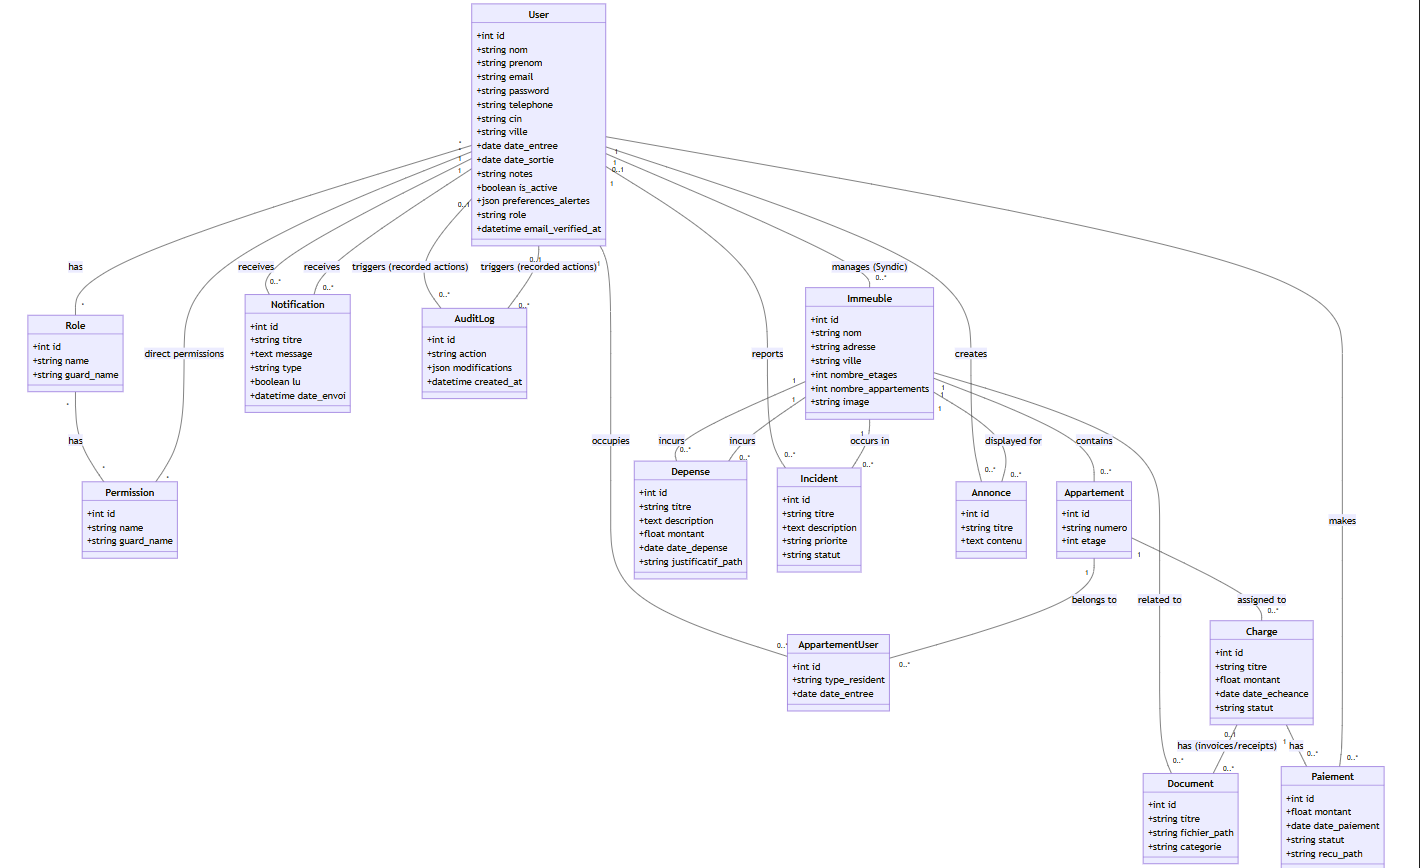
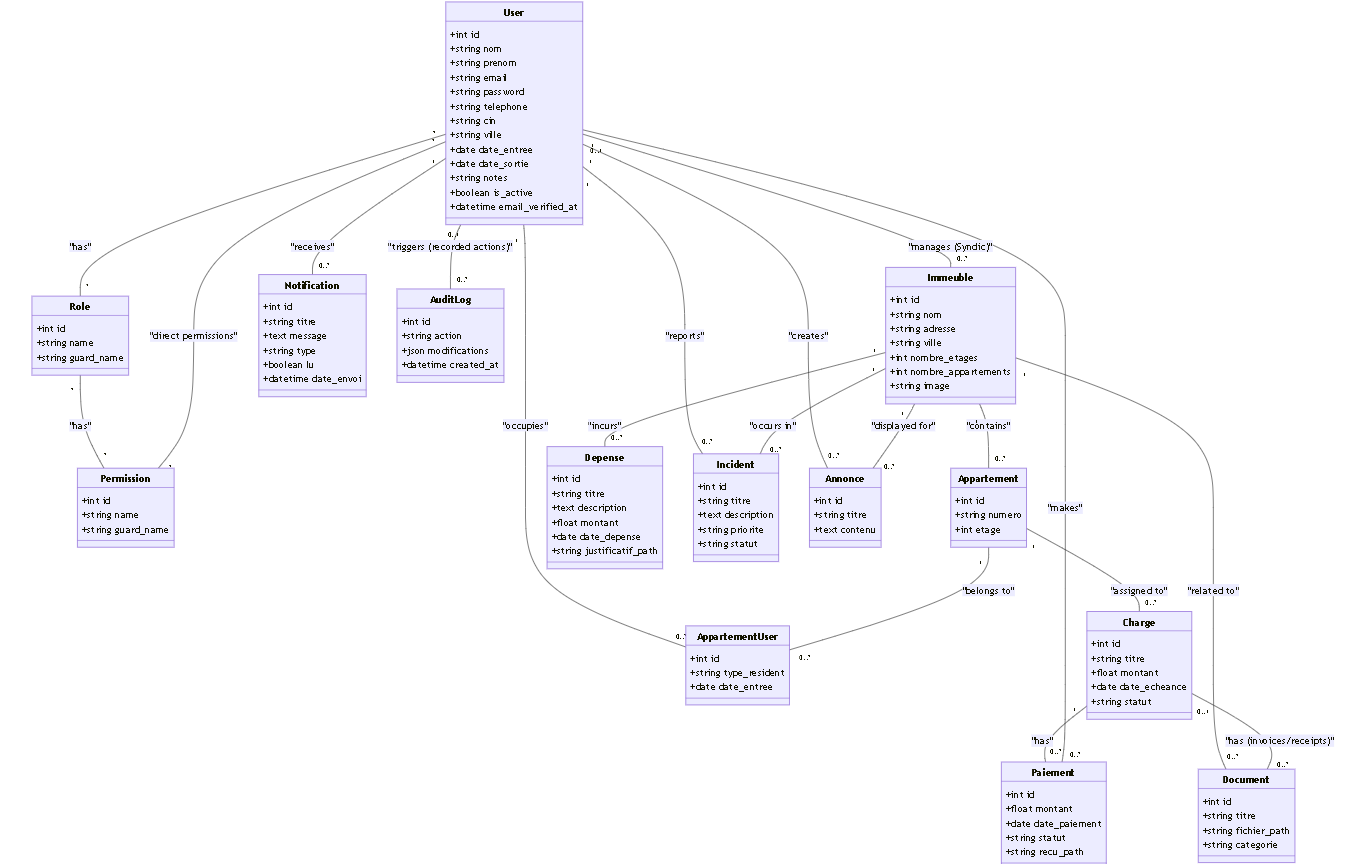
update

diff --git a/ImmoSyndic/resources/js/components/syndic/syndicImmeubles.js b/ImmoSyndic/resources/js/components/syndic/syndicImmeubles.js
@@ -93,5 +93,16 @@ export default (config = {}) => ({
         const matchesVille = this.filterVille === 'all' || ville === this.filterVille;
         const matchesStatut = this.filterStatut === 'all' || statut === this.filterStatut;
         return matchesSearch && matchesVille && matchesStatut;
+    },
+
+    /**
+     * Confirmer et soumettre la suppression d'un immeuble
+     */
+    supprimerImmeuble(id, nom) {
+        if (confirm(`Confirmer la suppression définitive de l'immeuble "${nom}" ?`)) {
+            const form = document.getElementById('delete-immeuble-form');
+            form.action = `/syndic/immeubles/${id}`;
+            form.submit();
+        }
     }
 });

diff --git a/ImmoSyndic/resources/views/admin/syndic/immeubles.blade.php b/ImmoSyndic/resources/views/admin/syndic/immeubles.blade.php
@@ -30,6 +30,27 @@
         </button>
     </div>
 
+    @if(session('success'))
+    <div class="mb-6 bg-emerald-500/10 border border-emerald-500/20 text-sm text-emerald-600 dark:text-emerald-400 rounded-2xl p-4 flex items-center gap-x-2.5 shadow-sm">
+        <i data-lucide="check-circle" class="size-5 shrink-0 text-emerald-500"></i>
+        <span class="font-semibold">{{ session('success') }}</span>
+    </div>
+    @endif
+
+    @if($errors->any())
+    <div class="mb-6 bg-rose-500/10 border border-rose-500/20 text-sm text-rose-600 dark:text-rose-400 rounded-2xl p-4 flex flex-col gap-y-1 shadow-sm">
+        <div class="flex items-center gap-x-2.5 font-semibold">
+            <i data-lucide="alert-circle" class="size-5 shrink-0 text-rose-500"></i>
+            <span>Veuillez corriger les erreurs suivantes :</span>
+        </div>
+        <ul class="list-disc list-inside ps-7 mt-1.5 space-y-1">
+            @foreach($errors->all() as $error)
+                <li>{{ $error }}</li>
+            @endforeach
+        </ul>
+    </div>
+    @endif
+
     {{-- Panneau d'affichage contenant la table des copropriétés --}}
     <div class="flex flex-col border border-gray-200/60 dark:border-slate-800/60 rounded-2xl shadow-premium bg-white dark:bg-[#0D121F] overflow-hidden">
         {{-- En-tête avec les filtres de recherche et de sélection de ville --}}
@@ -96,7 +117,7 @@
                                 <button @click="initEdit('{{ $immeuble->id }}', '{{ addslashes($immeuble->nom) }}', '{{ addslashes($immeuble->adresse) }}', '{{ addslashes($immeuble->ville) }}', '{{ $immeuble->syndic_id }}', {{ $immeuble->nombre_etages }}, {{ $immeuble->nombre_appartements }}, {{ json_encode($allVilles) }})" type="button" data-hs-overlay="#hs-modal-add-immeuble" class="size-8 rounded-xl bg-slate-100 hover:bg-slate-200 text-slate-700 dark:bg-neutral-800 dark:hover:bg-neutral-700 dark:text-slate-300 flex items-center justify-center transition-all shadow-sm border border-gray-200/40 dark:border-slate-750">
                                     <i data-lucide="edit-2" class="size-3.5"></i>
                                 </button>
-                                <button type="button" class="size-8 rounded-xl bg-rose-500/10 hover:bg-rose-500/25 border border-rose-500/20 text-rose-600 dark:text-rose-400 flex items-center justify-center transition-all shadow-sm">
+                                <button @click="supprimerImmeuble('{{ $immeuble->id }}', '{{ addslashes($immeuble->nom) }}')" type="button" class="size-8 rounded-xl bg-rose-500/10 hover:bg-rose-500/25 border border-rose-500/20 text-rose-600 dark:text-rose-400 flex items-center justify-center transition-all shadow-sm">
                                     <i data-lucide="trash-2" class="size-3.5"></i>
                                 </button>
                             </div>
@@ -182,7 +203,7 @@
                                     
                                     <!-- Select personnalisé réactif -->
                                     <div x-show="!isAddingCustomVille" class="relative" x-data="{ openFormVille: false }">
-                                        <input type="hidden" name="ville" :value="immeubleEnCours.ville">
+                                        <input type="hidden" name="ville" :value="immeubleEnCours.ville" :disabled="isAddingCustomVille">
                                         
                                         <button @click="openFormVille = !openFormVille" @click.outside="openFormVille = false" type="button"
                                             class="py-2.5 px-4 inline-flex items-center justify-between w-full bg-white/50 dark:bg-[#080B11] text-slate-700 dark:text-slate-300 rounded-xl text-sm transition-all duration-200 hover:bg-gray-50 dark:hover:bg-[#0a0e18] focus:outline-none">
@@ -228,7 +249,7 @@
                                         </button>
                                         <input name="ville" x-model="customVilleInput" @input="immeubleEnCours.ville = customVilleInput" type="text"
                                             class="py-2.5 px-4 ps-10 block w-full border-gray-200 dark:border-slate-850 dark:bg-[#080B11] dark:text-slate-300 rounded-xl text-sm focus:border-primary-500 focus:ring-primary-500"
-                                            placeholder="Ex: Béni Mellal" :required="isAddingCustomVille">
+                                            placeholder="Ex: Béni Mellal" :required="isAddingCustomVille" :disabled="!isAddingCustomVille">
                                     </div>
                                 </div>
                                 
@@ -262,6 +283,11 @@
             </div>
         </div>
     </div>
+    {{-- Formulaire masqué pour soumettre la suppression --}}
+    <form id="delete-immeuble-form" method="POST" style="display: none;">
+        @csrf
+        @method('DELETE')
+    </form>
 </div>
 @endsection
 

diff --git a/ImmoSyndic/resources/views/admin/syndic/paiements.blade.php b/ImmoSyndic/resources/views/admin/syndic/paiements.blade.php
@@ -56,7 +56,7 @@
             </div>
         </div>
 
-        <div class="sm:col-span-2 md:grow flex justify-end gap-x-3 relative">
+        <div class="sm:col-span-2 md:grow flex flex-wrap items-center justify-start sm:justify-end gap-2 relative">
             <!-- Dropdown Filtre par Mois -->
             <div class="relative inline-flex">
               <button @click="openMois = !openMois" @click.outside="openMois = false" type="button" class="py-2.5 px-4 inline-flex items-center gap-x-2 text-sm font-medium rounded-xl border border-gray-200/80 bg-white/50 hover:bg-gray-50 dark:bg-[#090D16]/50 dark:border-slate-800/80 dark:text-white dark:hover:bg-slate-900/50 shadow-sm transition-all duration-200">
